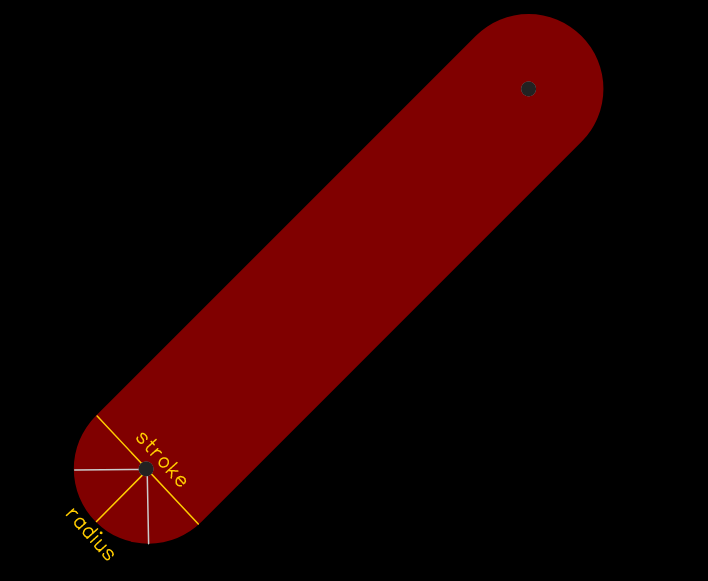
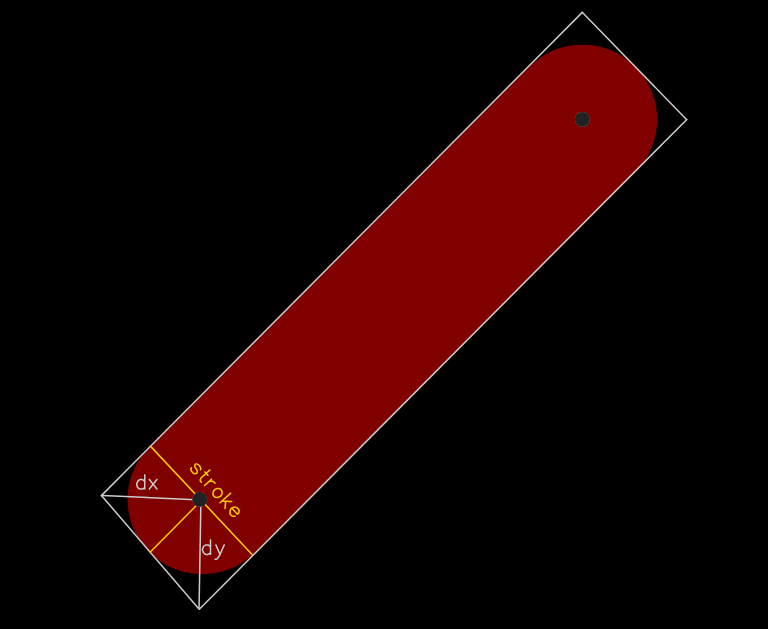
docs: 更新图片

Changed region(s): [[0.0932, 0.0, 0.9011, 0.9914], [0.7147, 0.1239, 0.7768, 0.2169]]

diff --git a/docs/WebGL案例.md b/docs/WebGL案例.md
@@ -106,8 +106,6 @@ void main() {
 
 绘制圆时，我们使用外接三角形包裹住圆，以方便过滤，同样的，绘制线宽线段时我们可以使用外接矩形来包裹线段，然后过滤掉线段外的片元即可。
 
-...
-
 <span class="example" key="sample_4">绘制线宽线段</span>。
 
 ## 绘制线宽圆弧
